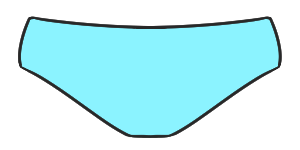
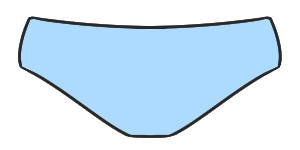
修改颜色

diff --git a/add_pants_color_record.py b/add_pants_color_record.py
@@ -62,6 +62,16 @@ async def _(matcher: Matcher,
     new_color_name = get_pants_data_by_color_value(new_color_value)
     old_color_value = DBPantsColorInfo.get_pants_color(name, date)
 
+    # 临时代码，用来复写所有原有的胖次颜色
+    # kv = {
+    #     530: 520,
+    # }
+    # for data in DBPantsColorInfo.get_pants_color_list(name):
+    #     if kv.get(data["color"]) is not None:
+    #         logger.info(f"Rewrite! old_old_color = {data['color']} new = {kv[data['color']]}")
+    #         DBPantsColorInfo.add_pants_color(name, data['time'], kv[data['color']])
+    # await add_pants_color_record.finish()
+
     if old_color_value is not None:
         if old_color_value != new_color_value:
             old_color_data = get_pants_data_by_color_value(old_color_value)
